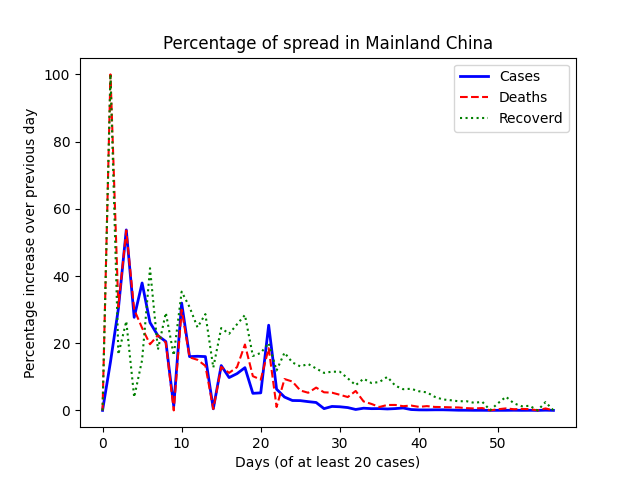
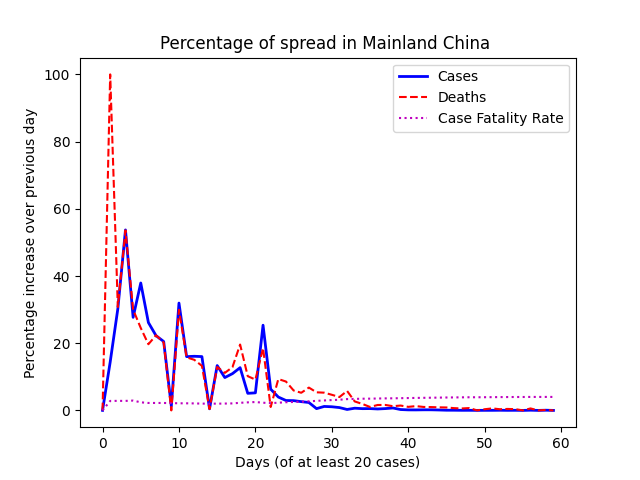
added fatality rate

diff --git a/app.py b/app.py
@@ -77,14 +77,15 @@ def calulate_results_for_day(data, date, previous_day_data):
 		percent_new_deaths = 0
 		percent_new_recovered = 0
 	return {
-			"date"                  : date,
-			"cases"                 : cases,
-			"deaths"                : deaths,
-			"recovered"             : recovered,
-			"percent_new_cases"     : previous_day_cases,
-			"percent_new_deaths"    : percent_new_deaths,
-			"percent_new_recovered" : percent_new_recovered,
-			}
+		"date"                  : date,
+		"cases"                 : cases,
+		"deaths"                : deaths,
+		"recovered"             : recovered,
+		"percent_new_cases"     : previous_day_cases,
+		"percent_new_deaths"    : percent_new_deaths,
+		"percent_new_recovered" : percent_new_recovered,
+		"case_fatality"         : round((deaths / cases) * 100, 4)
+	}
 
 def totals_for_region(region_data):
 	totals = []
@@ -105,7 +106,7 @@ def case_number_at_least(amount, data):
 
 def print_results_table(data):
 	data = case_number_at_least(20, data)
-	output_headers = ["Date", "Cases", "Cases % ^", "Deaths", "Deaths % ^", "Recovered", "Recovered % ^" ]
+	output_headers = ["Date", "Cases", "Cases % ^", "Deaths", "Deaths % ^", "Recovered", "Recovered % ^", "Case Fatality Rate" ]
 	formatter = PrettyTable(output_headers)
 	for daily_cases in data:
 		formatter.add_row([ daily_cases["date"], 
@@ -114,7 +115,8 @@ def print_results_table(data):
 			                daily_cases["deaths"],
 			                daily_cases["percent_new_deaths"],
 			                daily_cases["recovered"],
-			                daily_cases["percent_new_recovered"] ])
+			                daily_cases["percent_new_recovered"],
+			                daily_cases["case_fatality"] ])
 	print(formatter)
 
 
@@ -124,11 +126,11 @@ def draw_growth_plot(data):
 	recovered =             [ row["recovered"]             for row in data ]
 	percent_new_cases =     [ row["percent_new_cases"]     for row in data ]
 	percent_new_deaths =    [ row["percent_new_deaths"]    for row in data ]
-	percent_new_recovered = [ row["percent_new_recovered"] for row in data ]
+	case_fatality =         [ row["case_fatality"]         for row in data ]
 	plt.figure()
 	plt.plot( range(len(data)), percent_new_cases, 'b-',     label='Cases', linewidth=2 )
 	plt.plot( range(len(data)), percent_new_deaths, 'r--',   label='Deaths' )	
-	plt.plot( range(len(data)), percent_new_recovered, 'g:', label='Recoverd' )
+	plt.plot( range(len(data)), case_fatality, 'm:',  label='Case Fatality Rate' )
 	plt.legend()
 	plt.xlabel("Days (of at least 20 cases)")
 	plt.ylabel("Percentage increase over previous day")
@@ -142,9 +144,9 @@ def draw_totals_plot(data):
 	deaths =                [ row["deaths"]                for row in data ]
 	recovered =             [ row["recovered"]             for row in data ]
 	plt.figure()
-	plt.plot( range(len(data)), cases, 'b-',     label='Cases', linewidth=2 )
-	plt.plot( range(len(data)), deaths, 'r--',   label='Deaths' )	
-	plt.plot( range(len(data)), recovered, 'g:', label='Recoverd' )
+	plt.plot( range(len(data)), cases,     'b-',  label='Cases', linewidth=2 )
+	plt.plot( range(len(data)), deaths,    'r--', label='Deaths' )	
+	plt.plot( range(len(data)), recovered, 'g:',  label='Recoverd' )
 	plt.legend()
 	plt.xlabel("Days (of at least 20 cases)")
 	plt.ylabel("Totals")
